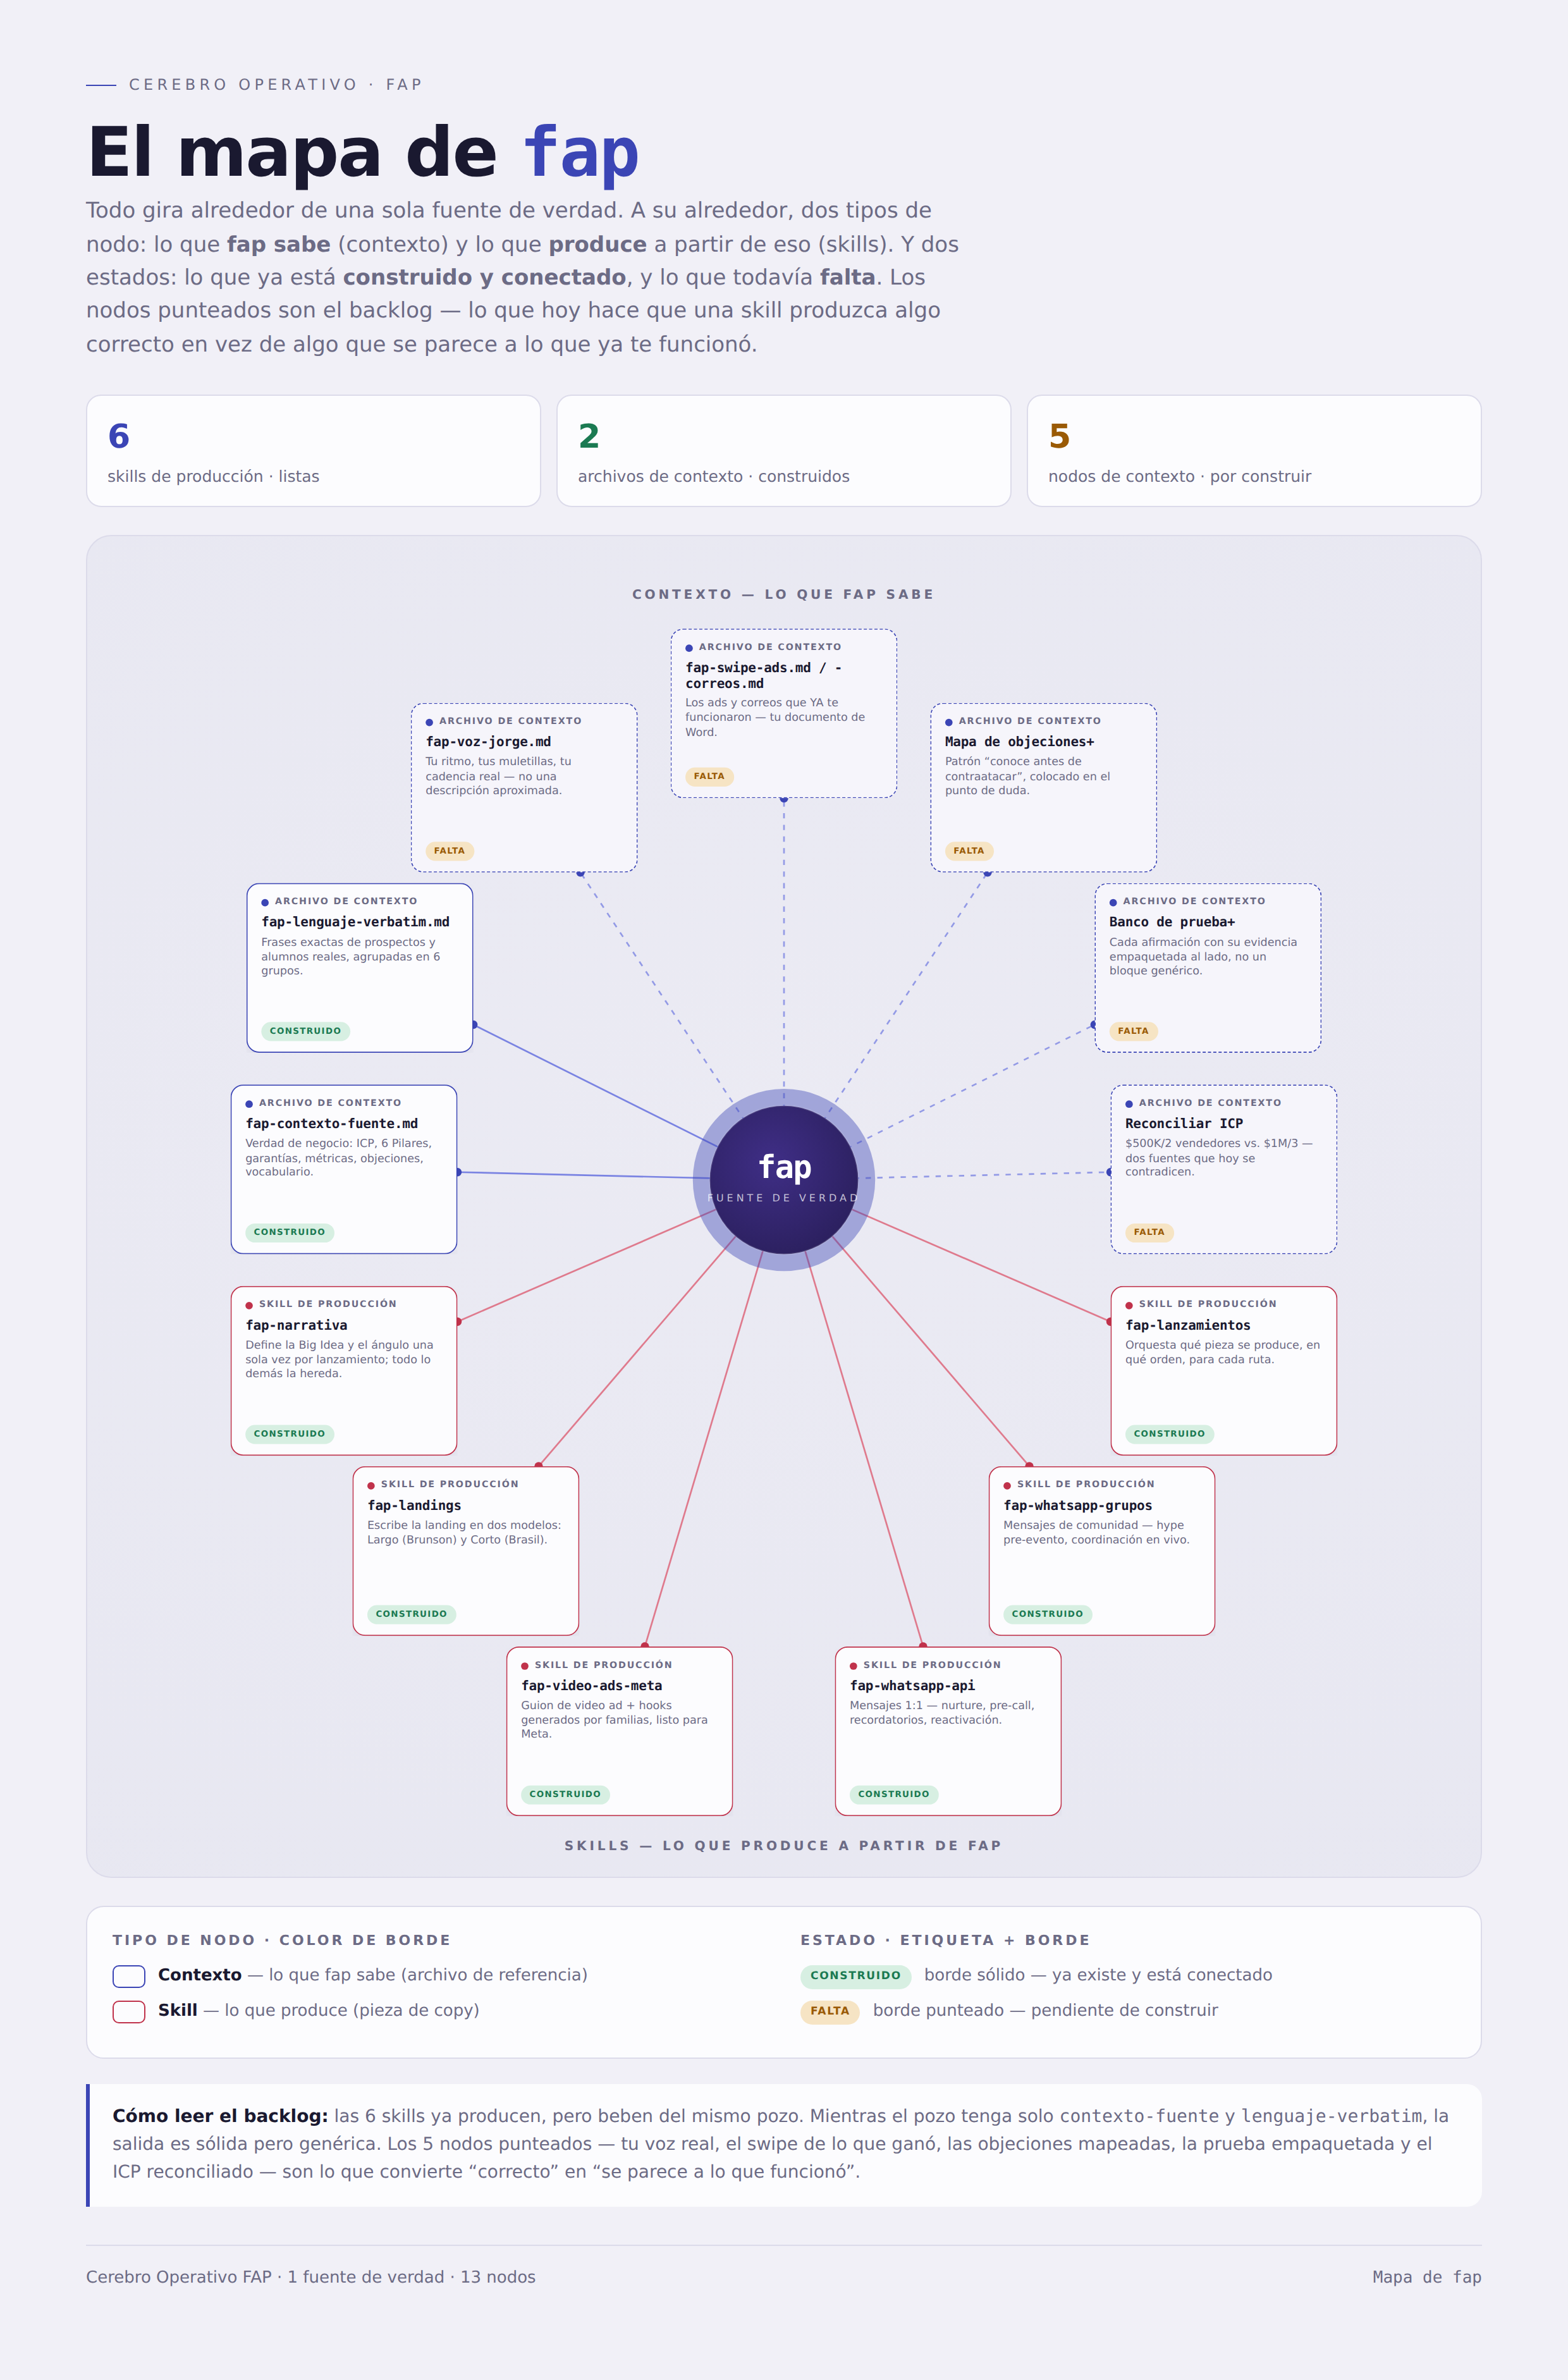
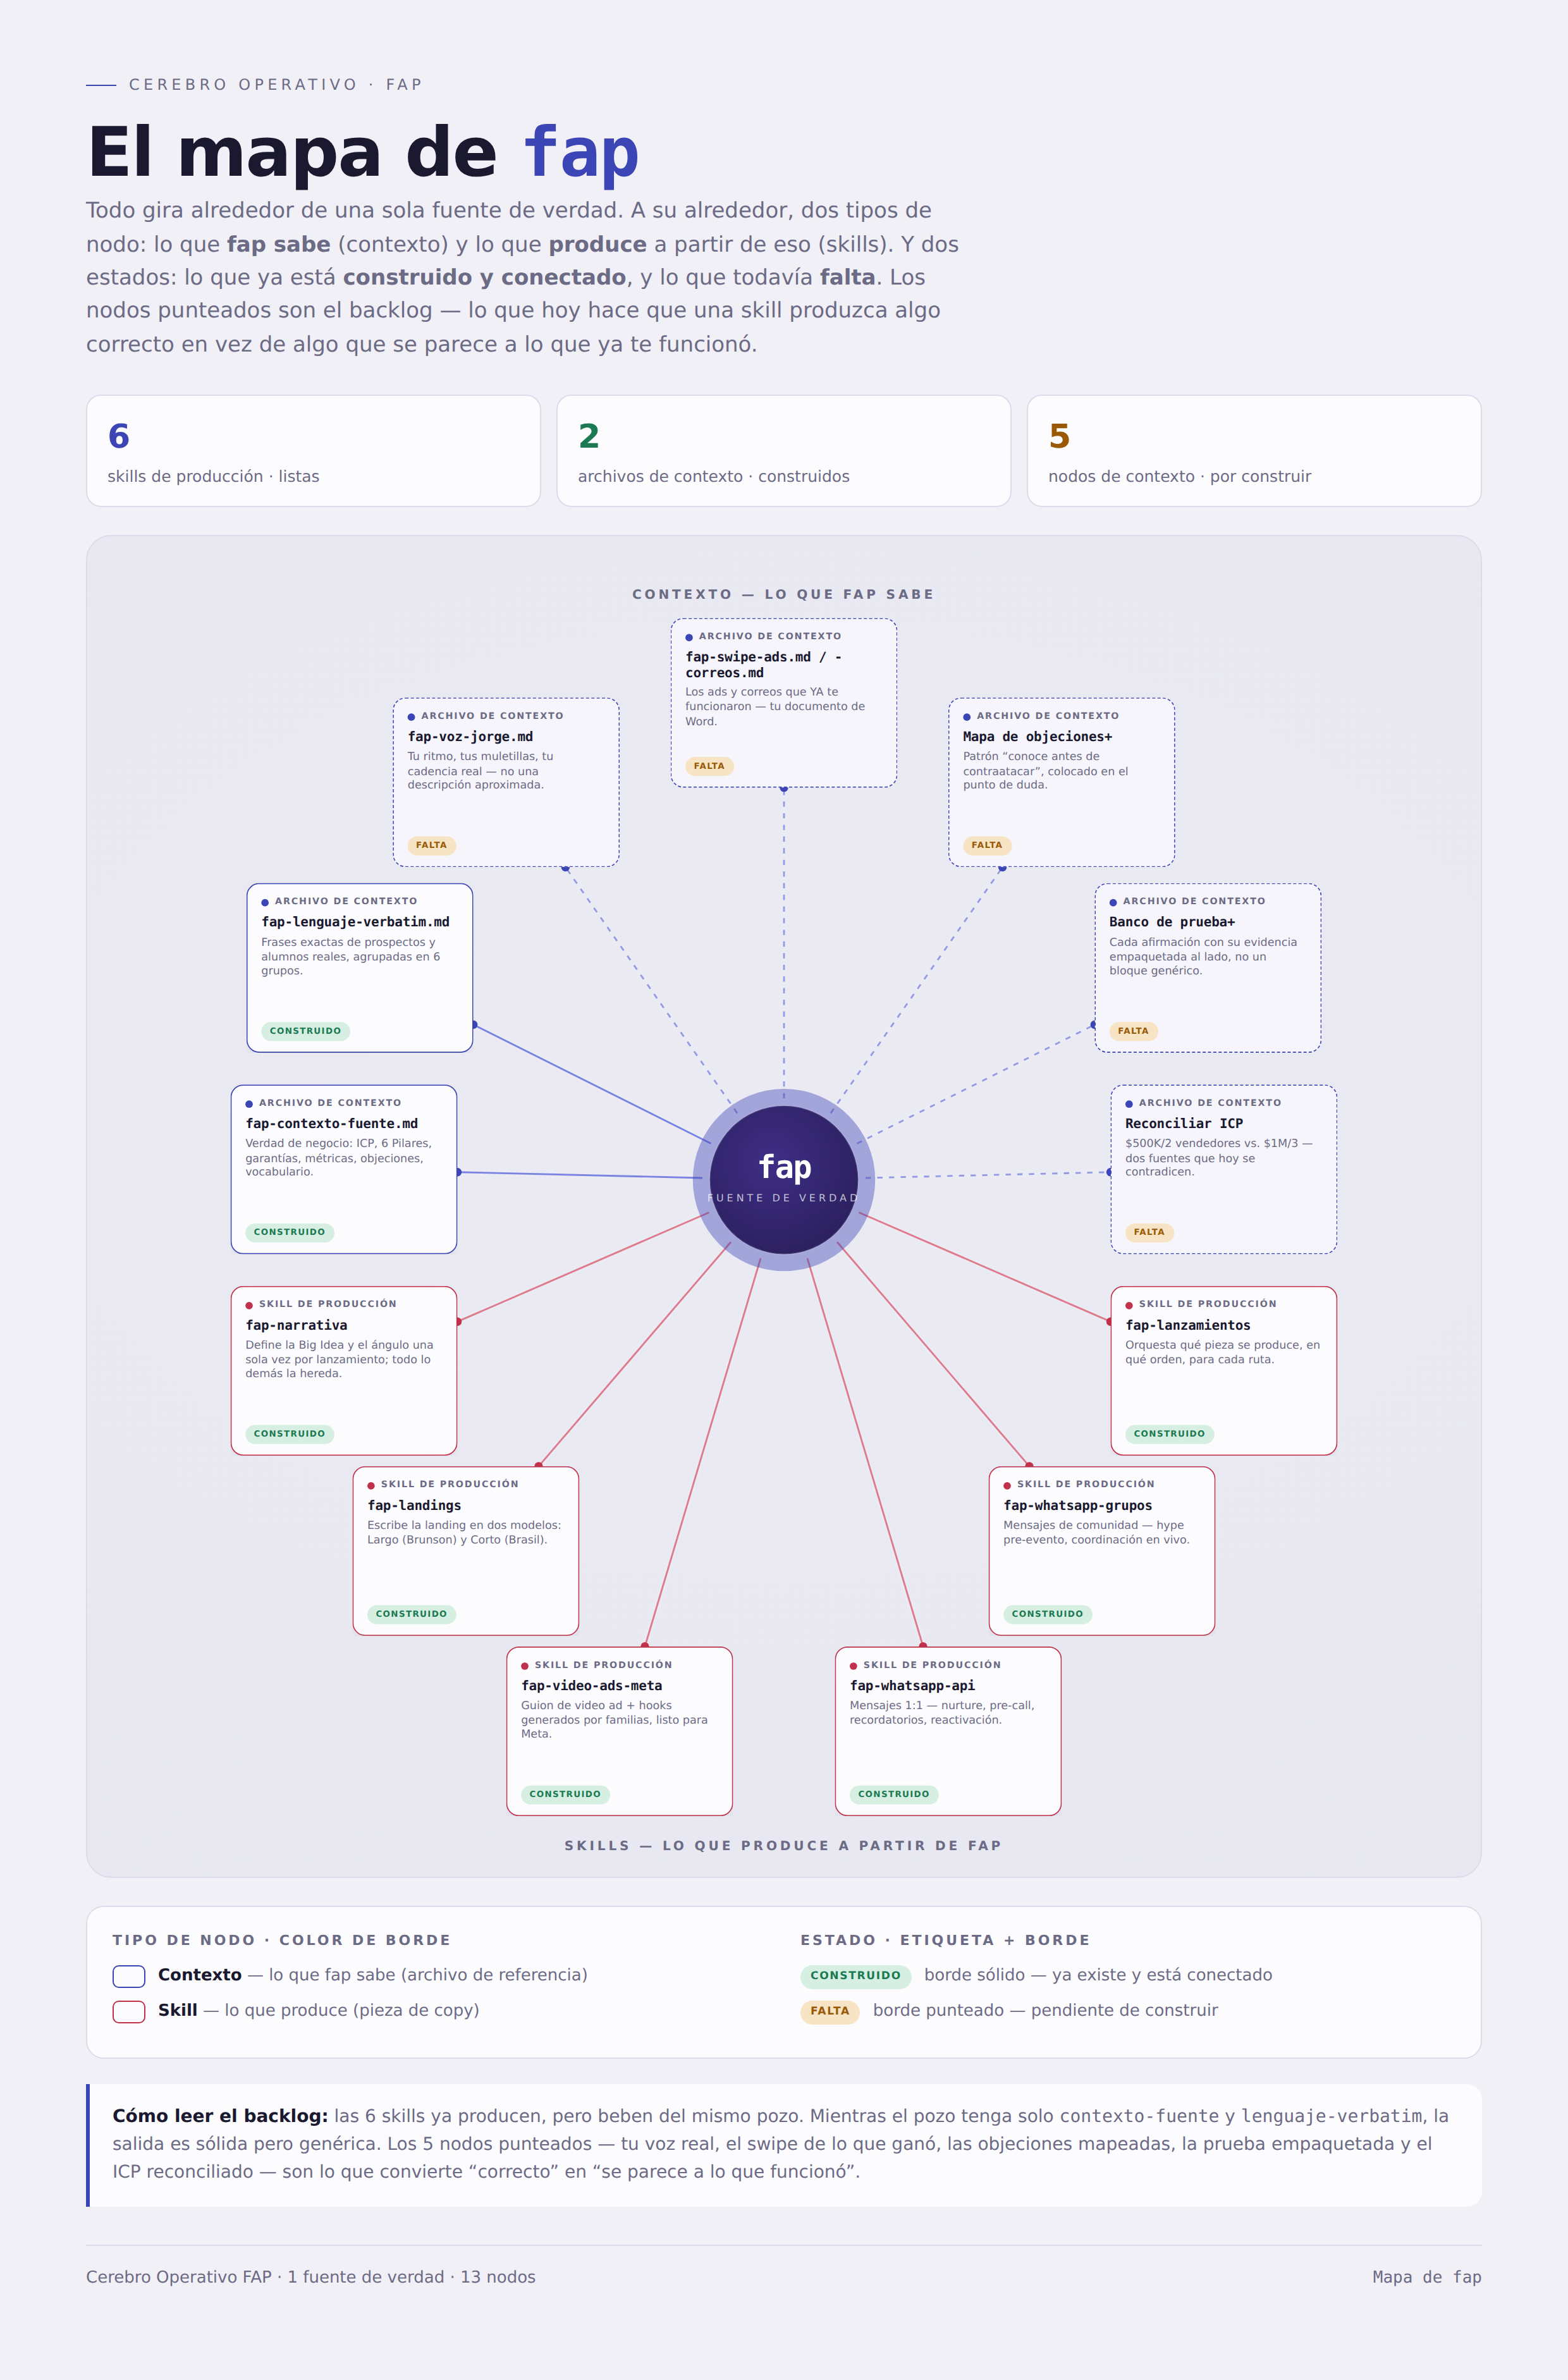
Mapa de fap: líneas desde el borde + halos para separar cruces
Claude-Session: https://claude.ai/code/session_018mepF7wzZWdrftPjNoKxZB

Changed region(s): [[0.2484, 0.2798, 0.3726, 0.373], [0.5899, 0.2798, 0.7141, 0.373], [0.4347, 0.2487, 0.5589, 0.3419]]

diff --git a/piezas/mapa-cerebro-fap.html b/piezas/mapa-cerebro-fap.html
@@ -8,7 +8,7 @@
     --navy1:#2A1F5C; --navy2:#3F2E86;
     --built-bg:#D7EFE2; --built-fg:#1B7A52;
     --miss-bg:#F6E4C4; --miss-fg:#9A5A05;
-    --accent:#3B45B5;
+    --accent:#3B45B5; --halo:#EBEBF4;
   }
   @media (prefers-color-scheme:dark){
     :root{
@@ -17,7 +17,7 @@
       --ctx:#8A93F2; --ctx-line:#5B64C4; --skill:#F0788C; --skill-line:#B54D63;
       --navy1:#3A2E7A; --navy2:#5B48B0;
       --built-bg:#123A2A; --built-fg:#6FE0A6; --miss-bg:#3A2C10; --miss-fg:#F2C579;
-      --accent:#8A93F2;
+      --accent:#8A93F2; --halo:#101022;
     }
   }
   :root[data-theme="light"]{
@@ -25,14 +25,14 @@
     --ink:#1A1930; --muted:#6C6B85; --hair:#DCDBEA;
     --ctx:#3B45B5; --ctx-line:#6E78E0; --skill:#C0324B; --skill-line:#DE6E82;
     --navy1:#2A1F5C; --navy2:#3F2E86;
-    --built-bg:#D7EFE2; --built-fg:#1B7A52; --miss-bg:#F6E4C4; --miss-fg:#9A5A05; --accent:#3B45B5;
+    --built-bg:#D7EFE2; --built-fg:#1B7A52; --miss-bg:#F6E4C4; --miss-fg:#9A5A05; --accent:#3B45B5; --halo:#EBEBF4;
   }
   :root[data-theme="dark"]{
     --bg:#0C0C17; --panel:#141426; --card:#1C1C31; --card-miss:#17172A;
     --ink:#EAEAF6; --muted:#9998B6; --hair:#2A2A44;
     --ctx:#8A93F2; --ctx-line:#5B64C4; --skill:#F0788C; --skill-line:#B54D63;
     --navy1:#3A2E7A; --navy2:#5B48B0;
-    --built-bg:#123A2A; --built-fg:#6FE0A6; --miss-bg:#3A2C10; --miss-fg:#F2C579; --accent:#8A93F2;
+    --built-bg:#123A2A; --built-fg:#6FE0A6; --miss-bg:#3A2C10; --miss-fg:#F2C579; --accent:#8A93F2; --halo:#101022;
   }
 
   *{box-sizing:border-box}
@@ -85,7 +85,8 @@
   .pill.miss{background:var(--miss-bg);color:var(--miss-fg)}
 
   /* links */
-  .link{fill:none;stroke-width:1.6}
+  .halo{fill:none;stroke:var(--halo);stroke-width:6;stroke-linecap:round}
+  .link{fill:none;stroke-width:1.7}
   .link.ctx{stroke:var(--ctx-line);opacity:.9}
   .link.skill{stroke:var(--skill-line);opacity:.9}
   .link.miss{stroke-dasharray:5 6;opacity:.7;animation:march 24s linear infinite}
@@ -168,9 +169,9 @@
   var HW=107, HH=80; // half card size
   var N=[
     // ---- CONTEXTO (arriba) ----
-    {t:'ctx',b:false,x:650,y:160,ttl:'fap-swipe-ads.md&nbsp;/&nbsp;-correos.md',d:'Los ads y correos que YA te funcionaron — tu documento de Word.'},
-    {t:'ctx',b:false,x:405,y:230,ttl:'fap-voz-jorge.md',d:'Tu ritmo, tus muletillas, tu cadencia real — no una descripción aproximada.'},
-    {t:'ctx',b:false,x:895,y:230,ttl:'Mapa de objeciones+',d:'Patrón “conoce antes de contraatacar”, colocado en el punto de duda.'},
+    {t:'ctx',b:false,x:650,y:150,ttl:'fap-swipe-ads.md&nbsp;/&nbsp;-correos.md',d:'Los ads y correos que YA te funcionaron — tu documento de Word.'},
+    {t:'ctx',b:false,x:388,y:225,ttl:'fap-voz-jorge.md',d:'Tu ritmo, tus muletillas, tu cadencia real — no una descripción aproximada.'},
+    {t:'ctx',b:false,x:912,y:225,ttl:'Mapa de objeciones+',d:'Patrón “conoce antes de contraatacar”, colocado en el punto de duda.'},
     {t:'ctx',b:true, x:250,y:400,ttl:'fap-lenguaje-verbatim.md',d:'Frases exactas de prospectos y alumnos reales, agrupadas en 6 grupos.'},
     {t:'ctx',b:false,x:1050,y:400,ttl:'Banco de prueba+',d:'Cada afirmación con su evidencia empaquetada al lado, no un bloque genérico.'},
     {t:'ctx',b:true, x:235,y:590,ttl:'fap-contexto-fuente.md',d:'Verdad de negocio: ICP, 6 Pilares, garantías, métricas, objeciones, vocabulario.'},
@@ -191,9 +192,13 @@
 
   var links='', cards='', dots='';
   N.forEach(function(n){
-    var bp=border(n.x,n.y);
+    var dx=n.x-CX, dy=n.y-CY, L=Math.sqrt(dx*dx+dy*dy)||1, ux=dx/L, uy=dy/L;
+    var sx=CX+ux*(R+7), sy=CY+uy*(R+7);        // start at circle rim
+    var bp=border(n.x,n.y);                      // end at card border
     var cls='link '+n.t+(n.b?'':' miss');
-    links+='<line class="'+cls+'" x1="'+CX+'" y1="'+CY+'" x2="'+bp.x.toFixed(1)+'" y2="'+bp.y.toFixed(1)+'"/>';
+    // halo first, then colored line — interleaved so each new line "bridges" over earlier ones
+    links+='<line class="halo" x1="'+sx.toFixed(1)+'" y1="'+sy.toFixed(1)+'" x2="'+bp.x.toFixed(1)+'" y2="'+bp.y.toFixed(1)+'"/>'+
+           '<line class="'+cls+'" x1="'+sx.toFixed(1)+'" y1="'+sy.toFixed(1)+'" x2="'+bp.x.toFixed(1)+'" y2="'+bp.y.toFixed(1)+'"/>';
     // connection dot on card border
     var dc = n.t==='ctx' ? 'var(--ctx)' : 'var(--skill)';
     dots+='<circle cx="'+bp.x.toFixed(1)+'" cy="'+bp.y.toFixed(1)+'" r="4" fill="'+dc+'"/>';